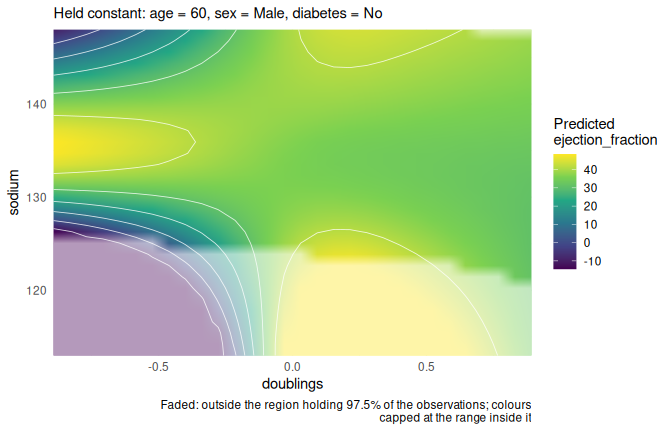
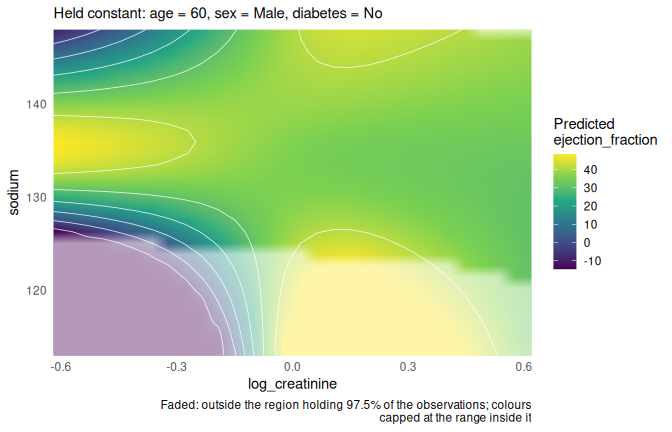
Feature tour: parameterized example uses log creatinine, not doublings

diff --git a/rendered_vignettes/feature_tour.md b/rendered_vignettes/feature_tour.md
@@ -494,10 +494,12 @@ eight with how each value was chosen.
 ## 9. Parameterized models *(from p-ggeffects)*
 
 A parameterized model gives the fitted model new inputs without
-refitting it. Here creatinine is described by its logarithm:
+refitting it. You say how the model’s variable is computed from the new
+one. Here the model uses creatinine, and we want to work with log
+creatinine, so creatinine = exp(log_creatinine):
 
 ``` r
-pfit <- parameterize(fit, list(creatinine = function(log_cr) exp(log_cr)))
+pfit <- parameterize(fit, list(creatinine = function(log_creatinine) exp(log_creatinine)))
 pfit
 #> Parameterized model
 #> 
@@ -533,119 +535,70 @@ pfit
 #> 
 #> 
 #> Parameters:
-#> [1] "log_cr"
+#> [1] "log_creatinine"
 #> 
 #> Parameterizations:
-#> $creatinine <- (exp(log_cr)); (log_cr)
+#> $creatinine <- (exp(log_creatinine)); (log_creatinine)
 is.parameterized_model(pfit)
 #> [1] TRUE
 parameter_variables(pfit)
-#> [1] "log_cr"
+#> [1] "log_creatinine"
 parameterizations(pfit)
 #> $creatinine
-#> function (log_cr) 
-#> (exp(log_cr))
-#> <environment: 0x616db51d3df0>
+#> function (log_creatinine) 
+#> (exp(log_creatinine))
+#> <environment: 0x5746106f6530>
 class(original_model(pfit))
 #> [1] "lm"
-```
 
-Parameterizing again composes the two steps: here, log creatinine is
-given as the number of doublings from 1 mg/dL.
-
-``` r
-pfit2 <- parameterize(pfit, list(log_cr = function(doublings) doublings * log(2)))
-print(pfit2, show_history = TRUE)
-#> Parameterized model
-#> 
-#> Model:
-#> 
-#> Call:
-#> lm(formula = ejection_fraction ~ ns(creatinine, 3) * ns(sodium, 
-#>     3) + ns(age, 3) + sex + diabetes, data = hf)
-#> 
-#> Coefficients:
-#>                       (Intercept)                 ns(creatinine, 3)1  
-#>                         -270.9880                           -41.7106  
-#>                ns(creatinine, 3)2                 ns(creatinine, 3)3  
-#>                          928.3082                           908.3326  
-#>                    ns(sodium, 3)1                     ns(sodium, 3)2  
-#>                          168.9955                           594.0910  
-#>                    ns(sodium, 3)3                        ns(age, 3)1  
-#>                           88.1682                             1.5544  
-#>                       ns(age, 3)2                        ns(age, 3)3  
-#>                            5.2880                             7.5979  
-#>                           sexMale                        diabetesYes  
-#>                           -3.3220                            -0.1435  
-#> ns(creatinine, 3)1:ns(sodium, 3)1  ns(creatinine, 3)2:ns(sodium, 3)1  
-#>                           13.3967                          -439.6060  
-#> ns(creatinine, 3)3:ns(sodium, 3)1  ns(creatinine, 3)1:ns(sodium, 3)2  
-#>                         -368.2904                            60.1433  
-#> ns(creatinine, 3)2:ns(sodium, 3)2  ns(creatinine, 3)3:ns(sodium, 3)2  
-#>                        -1807.9032                         -1779.1195  
-#> ns(creatinine, 3)1:ns(sodium, 3)3  ns(creatinine, 3)2:ns(sodium, 3)3  
-#>                           35.1593                          -287.4718  
-#> ns(creatinine, 3)3:ns(sodium, 3)3  
-#>                         -330.1304  
-#> 
-#> 
-#> Parameters:
-#> [1] "doublings"
-#> 
-#> Parameterizations:
-#> $creatinine <- (exp(doublings * log(2))); (doublings)
-#> 
-#> 
-#> Parameterization history:
-#> 
-#> Stage 1                        Stage 2                        
-#> ----------------------------   -------------------------------
-#> 
-#> creatinine [exp(log_cr)] <─────┐
-#>                                log_cr [doublings * log(2)] <── doublings
-nd <- data.frame(doublings = c(-1, 0, 1, 2), sodium = 137, age = 60,
+nd <- data.frame(log_creatinine = log(c(0.5, 1, 2, 4)), sodium = 137, age = 60,
                  sex = "Male", diabetes = "No")
-parameterize_data(pfit2, nd)
-#>   doublings sodium age  sex diabetes creatinine
-#> 1        -1    137  60 Male       No        0.5
-#> 2         0    137  60 Male       No        1.0
-#> 3         1    137  60 Male       No        2.0
-#> 4         2    137  60 Male       No        4.0
-predict(pfit2, nd)
+parameterize_data(pfit, nd)
+#>   log_creatinine sodium age  sex diabetes creatinine
+#> 1     -0.6931472    137  60 Male       No        0.5
+#> 2      0.0000000    137  60 Male       No        1.0
+#> 3      0.6931472    137  60 Male       No        2.0
+#> 4      1.3862944    137  60 Male       No        4.0
+predict(pfit, nd)
 #>        1        2        3        4 
 #> 47.76279 37.04315 33.59173 35.69862
-predict(fit, transform(nd, creatinine = 2^doublings))
+predict(fit, transform(nd, creatinine = exp(log_creatinine)))
 #>        1        2        3        4 
 #> 47.76279 37.04315 33.59173 35.69862
 ```
 
 **Check:** `parameterize_data()` adds `creatinine` = 0.5, 1, 2, 4, and
-the two `predict()` calls give the same numbers.
+the two `predict()` calls give the same numbers. (A parameterized model
+can be parameterized again; the steps are then combined. See
+`vignette("parameterized_models")`.)
 
-Predictions and plots work as for an ordinary model. Without `values`,
-the range of a new variable is found by a search: a range centred at 0
-within which creatinine stays inside its observed range.
+Predictions and plots work as for an ordinary model, with log creatinine
+on the x-axis. Without `values`, the range of a new variable is found by
+a search: a range centred at 0 within which creatinine stays inside its
+observed range.
 
 ``` r
-p_surface <- term_predictions(pfit2, c("doublings", "sodium"))
-range(p_surface$doublings)
-#> [1] -0.89161  0.89161
+p_surface <- term_predictions(pfit, c("log_creatinine", "sodium"))
+range(p_surface$log_creatinine)
+#> [1] -0.6191736  0.6191736
 term_heatmap(p_surface, show_support = TRUE)
 ```
 
 ![](feature_tour_files/figure-gfm/parameterized-predictions-1.png)<!-- -->
 
 ``` r
-term_curves(term_predictions(pfit2, c("doublings", "sodium"),
-                             values = list(doublings = seq(-1, 2, length.out = 30),
+term_curves(term_predictions(pfit, c("log_creatinine", "sodium"),
+                             values = list(log_creatinine = seq(log(0.6), log(4), length.out = 30),
                                            sodium = c(130, 137, 142))))
 ```
 
 ![](feature_tour_files/figure-gfm/parameterized-predictions-2.png)<!-- -->
 
-**Check:** `doublings` runs from about −0.9 to 0.9, i.e. creatinine from
-0.54 to 1.86 mg/dL. Usually it is clearer to give the range with
-`values`, as in the second plot.
+**Check:** without `values`, `log_creatinine` runs from about −0.6 to
+0.6, i.e. creatinine from about 0.54 to 1.86 mg/dL: the search is
+centred at 0 (creatinine 1), so it stops where the lower end leaves the
+data, although creatinine goes up to 9.4. It is usually clearer to give
+the range with `values`, as in the second plot (creatinine 0.6 to 4).
 
 ## 10. Curves through a heatmap: `term_layer()` *(from p-ggeffects)*
 
@@ -661,15 +614,15 @@ head(worsening)
 #> Predictions over w ( 6 grid points, response scale )
 #> Held constant: age = 60 (median), sex = Male (most common), diabetes =
 #>   No (most common)
-#> Critical values for 95% intervals (analytic): pointwise 1.969, simultaneous 2.547
+#> Critical values for 95% intervals (analytic): pointwise 1.969, simultaneous 2.538
 #> 
 #>     w estimate conf.low conf.high band.low band.high
-#>  0.00    38.62    35.35     41.88    34.39     42.84
-#>  0.05    38.40    35.06     41.74    34.07     42.72
-#>  0.10    38.04    34.69     41.40    33.70     42.38
-#>  0.15    37.62    34.31     40.94    33.33     41.91
-#>  0.20    37.18    33.93     40.43    32.98     41.38
-#>  0.25    36.74    33.56     39.92    32.63     40.85
+#>  0.00    38.62    35.35     41.88    34.41     42.83
+#>  0.05    38.40    35.06     41.74    34.09     42.70
+#>  0.10    38.04    34.69     41.40    33.72     42.37
+#>  0.15    37.62    34.31     40.94    33.35     41.90
+#>  0.20    37.18    33.93     40.43    32.99     41.36
+#>  0.25    36.74    33.56     39.92    32.64     40.84
 term_heatmap(surface, layers = worsening)
 ```
 

diff --git a/DEVELOPMENT_LOG.md b/DEVELOPMENT_LOG.md
@@ -23,6 +23,11 @@ any time, so a landmark changes nothing). What a landmark adds is an
 - No package code changed: termeffects does not predict absolute risks.
   Absolute-risk predictions with simultaneous bands remain a possible future
   feature (would need its own validation).
+- `feature_tour.Rmd`, section 9 (parameterized models): the example now uses
+  `log_creatinine` throughout (creatinine = exp(log_creatinine)) instead of a
+  second step to "doublings", which made the plots hard to read. Composition
+  of parameterizations is only mentioned, with a pointer to
+  `vignette("parameterized_models")`.
 
 ## 2026-11-04 — More model types; rendered vignettes
 
